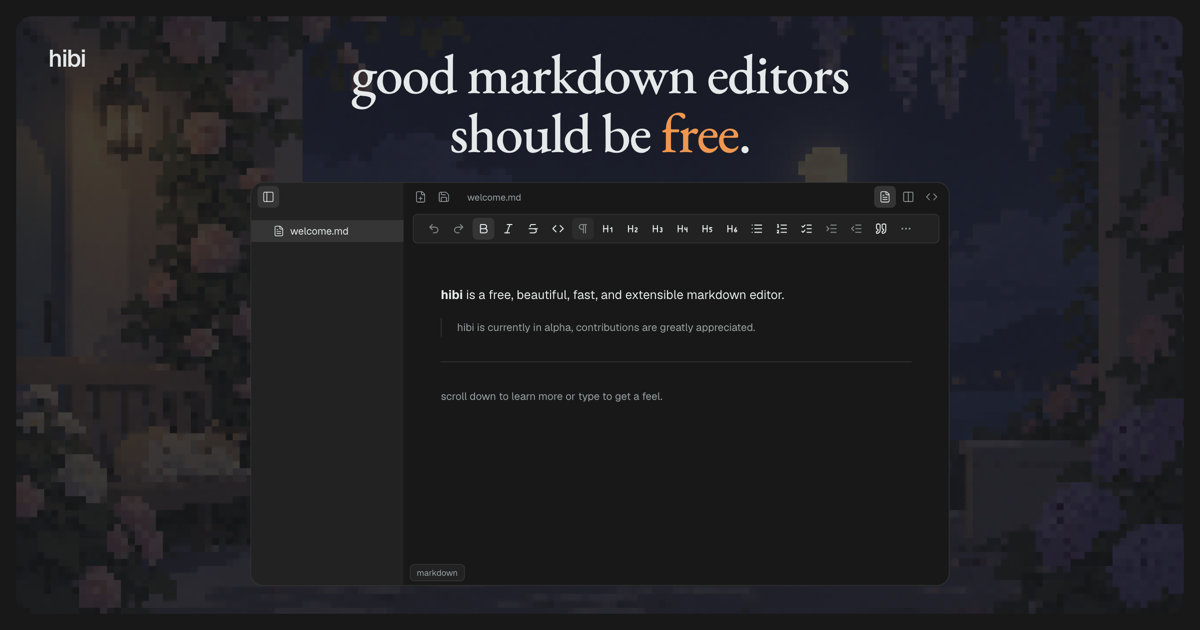
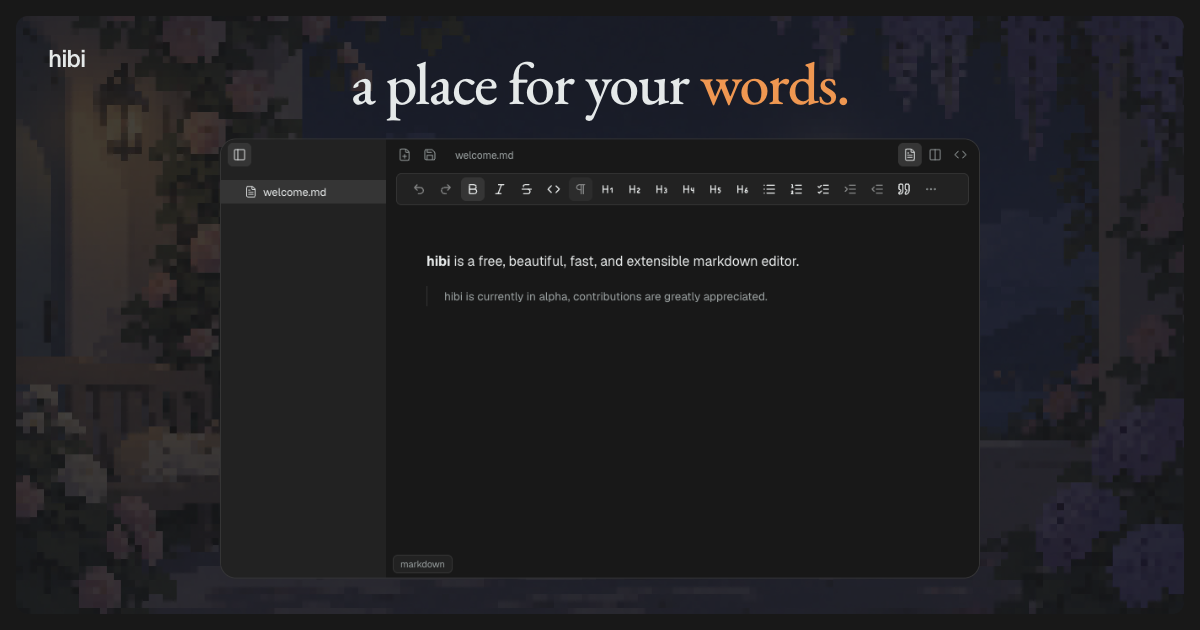
regenerate social preview with current tagline

diff --git a/index.html b/index.html
@@ -17,16 +17,16 @@
       content="hibi is a fast, customizable writing app for documents that stay on your computer."
     />
     <meta property="og:type" content="website" />
-    <meta property="og:image" content="https://www.hibi.garden/opengraph.png" />
+    <meta property="og:image" content="https://www.hibi.garden/opengraph.png?v=2" />
     <meta property="og:image:type" content="image/png" />
     <meta property="og:image:width" content="1200" />
     <meta property="og:image:height" content="630" />
     <meta
       property="og:image:alt"
-      content="good markdown editors should be free. hibi's editor in dark mode."
+      content="a place for your words. hibi's editor in dark mode."
     />
     <meta name="twitter:card" content="summary_large_image" />
-    <meta name="twitter:image" content="https://www.hibi.garden/opengraph.png" />
+    <meta name="twitter:image" content="https://www.hibi.garden/opengraph.png?v=2" />
     <link rel="icon" type="image/png" sizes="256x256" href="/favicon.png" />
     <script src="/theme-init.js"></script>
     <link

diff --git a/addons/index.html b/addons/index.html
@@ -14,16 +14,16 @@
       content="find addons for hibi."
     />
     <meta property="og:type" content="website" />
-    <meta property="og:image" content="https://www.hibi.garden/opengraph.png" />
+    <meta property="og:image" content="https://www.hibi.garden/opengraph.png?v=2" />
     <meta property="og:image:type" content="image/png" />
     <meta property="og:image:width" content="1200" />
     <meta property="og:image:height" content="630" />
     <meta
       property="og:image:alt"
-      content="good markdown editors should be free. hibi's editor in dark mode."
+      content="a place for your words. hibi's editor in dark mode."
     />
     <meta name="twitter:card" content="summary_large_image" />
-    <meta name="twitter:image" content="https://www.hibi.garden/opengraph.png" />
+    <meta name="twitter:image" content="https://www.hibi.garden/opengraph.png?v=2" />
     <link rel="icon" type="image/png" sizes="256x256" href="/favicon.png" />
     <script src="/theme-init.js"></script>
     <link rel="stylesheet" href="/src/style.css" />
